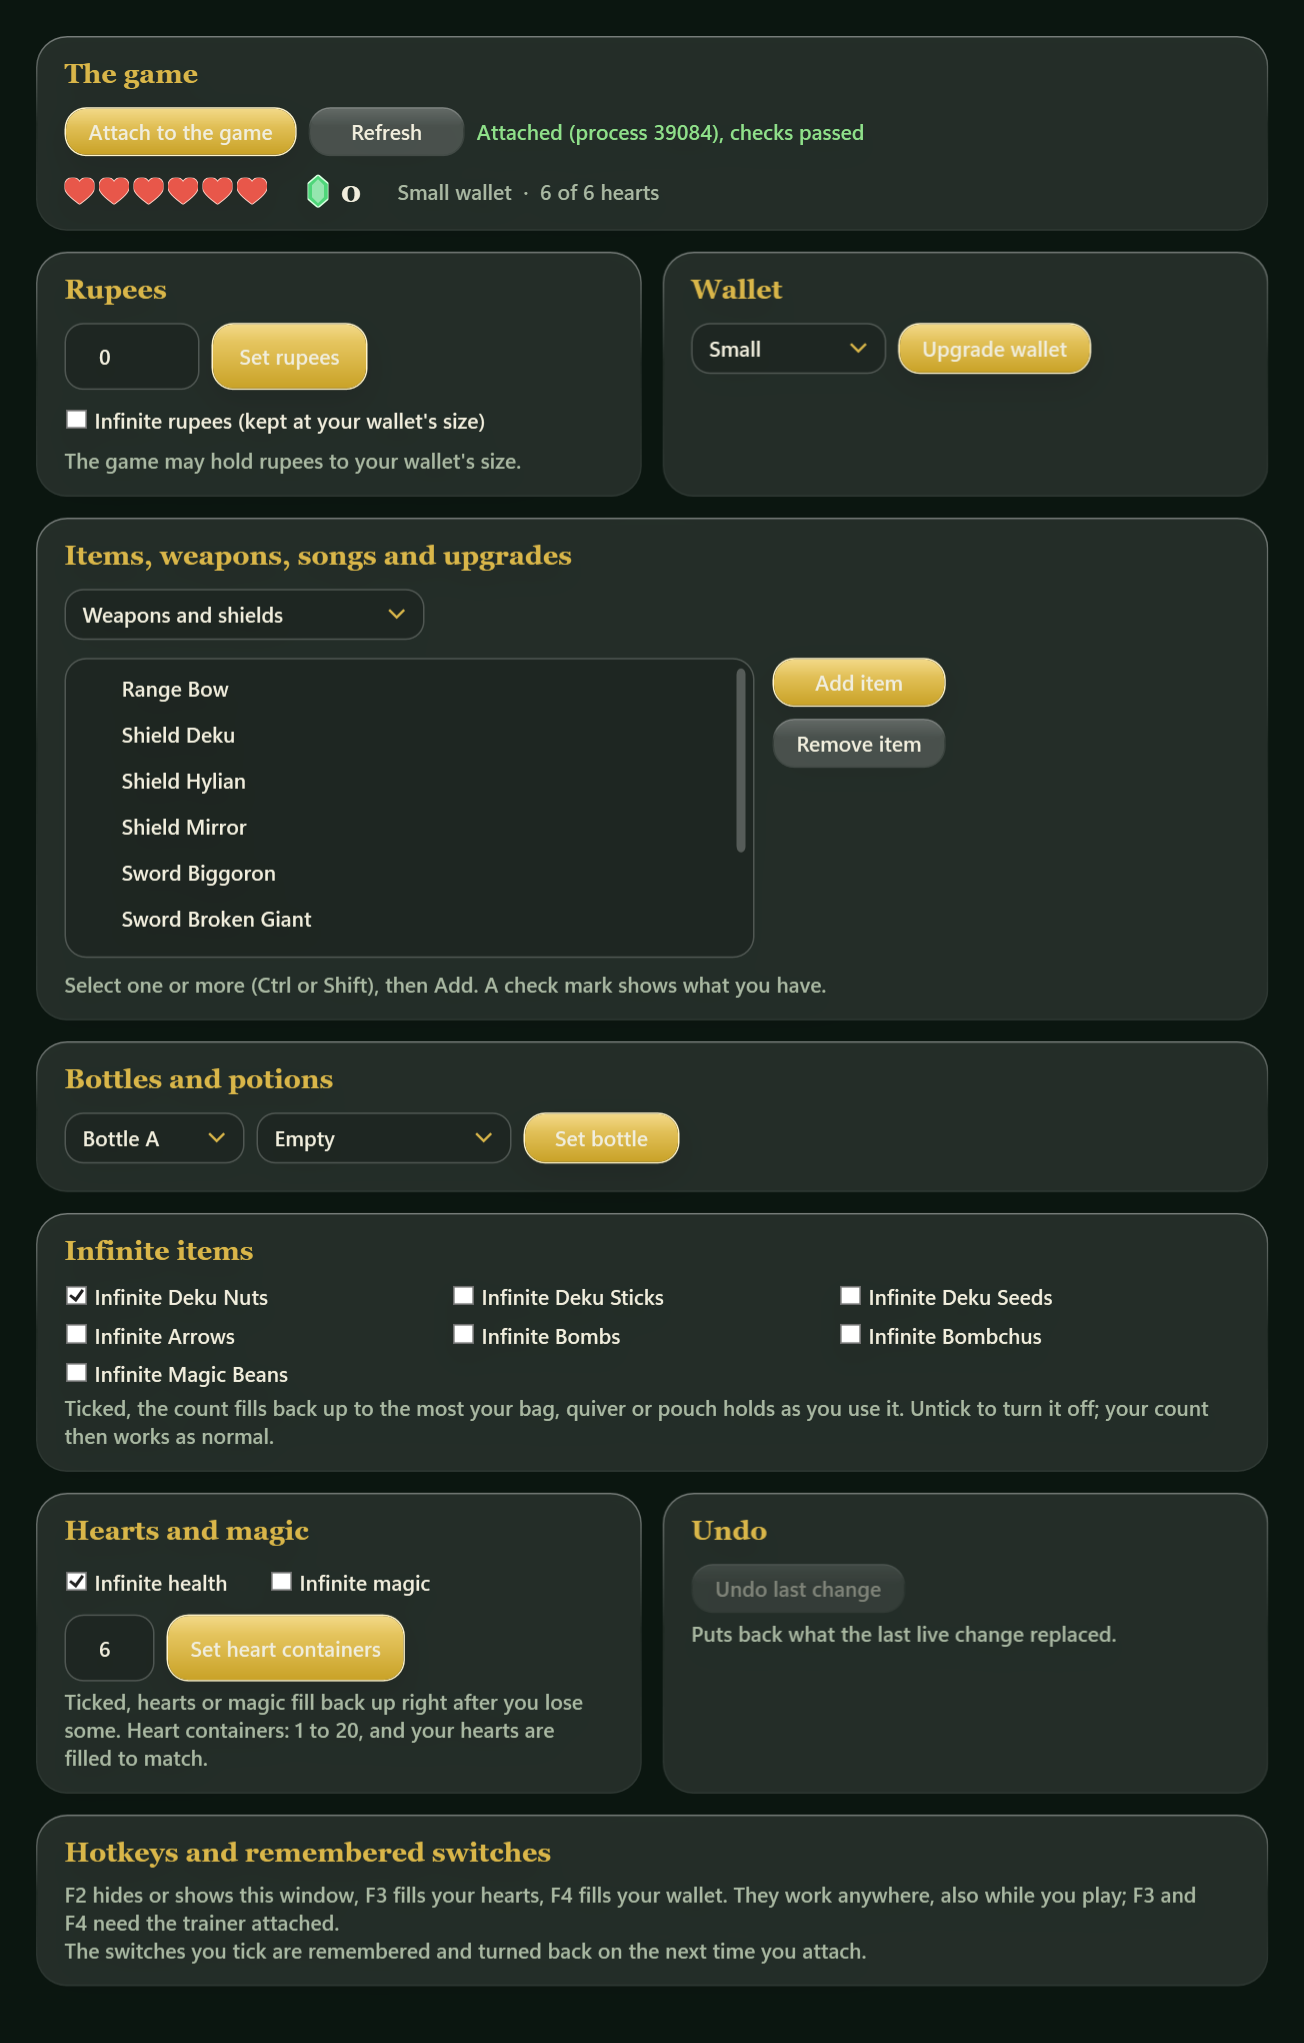
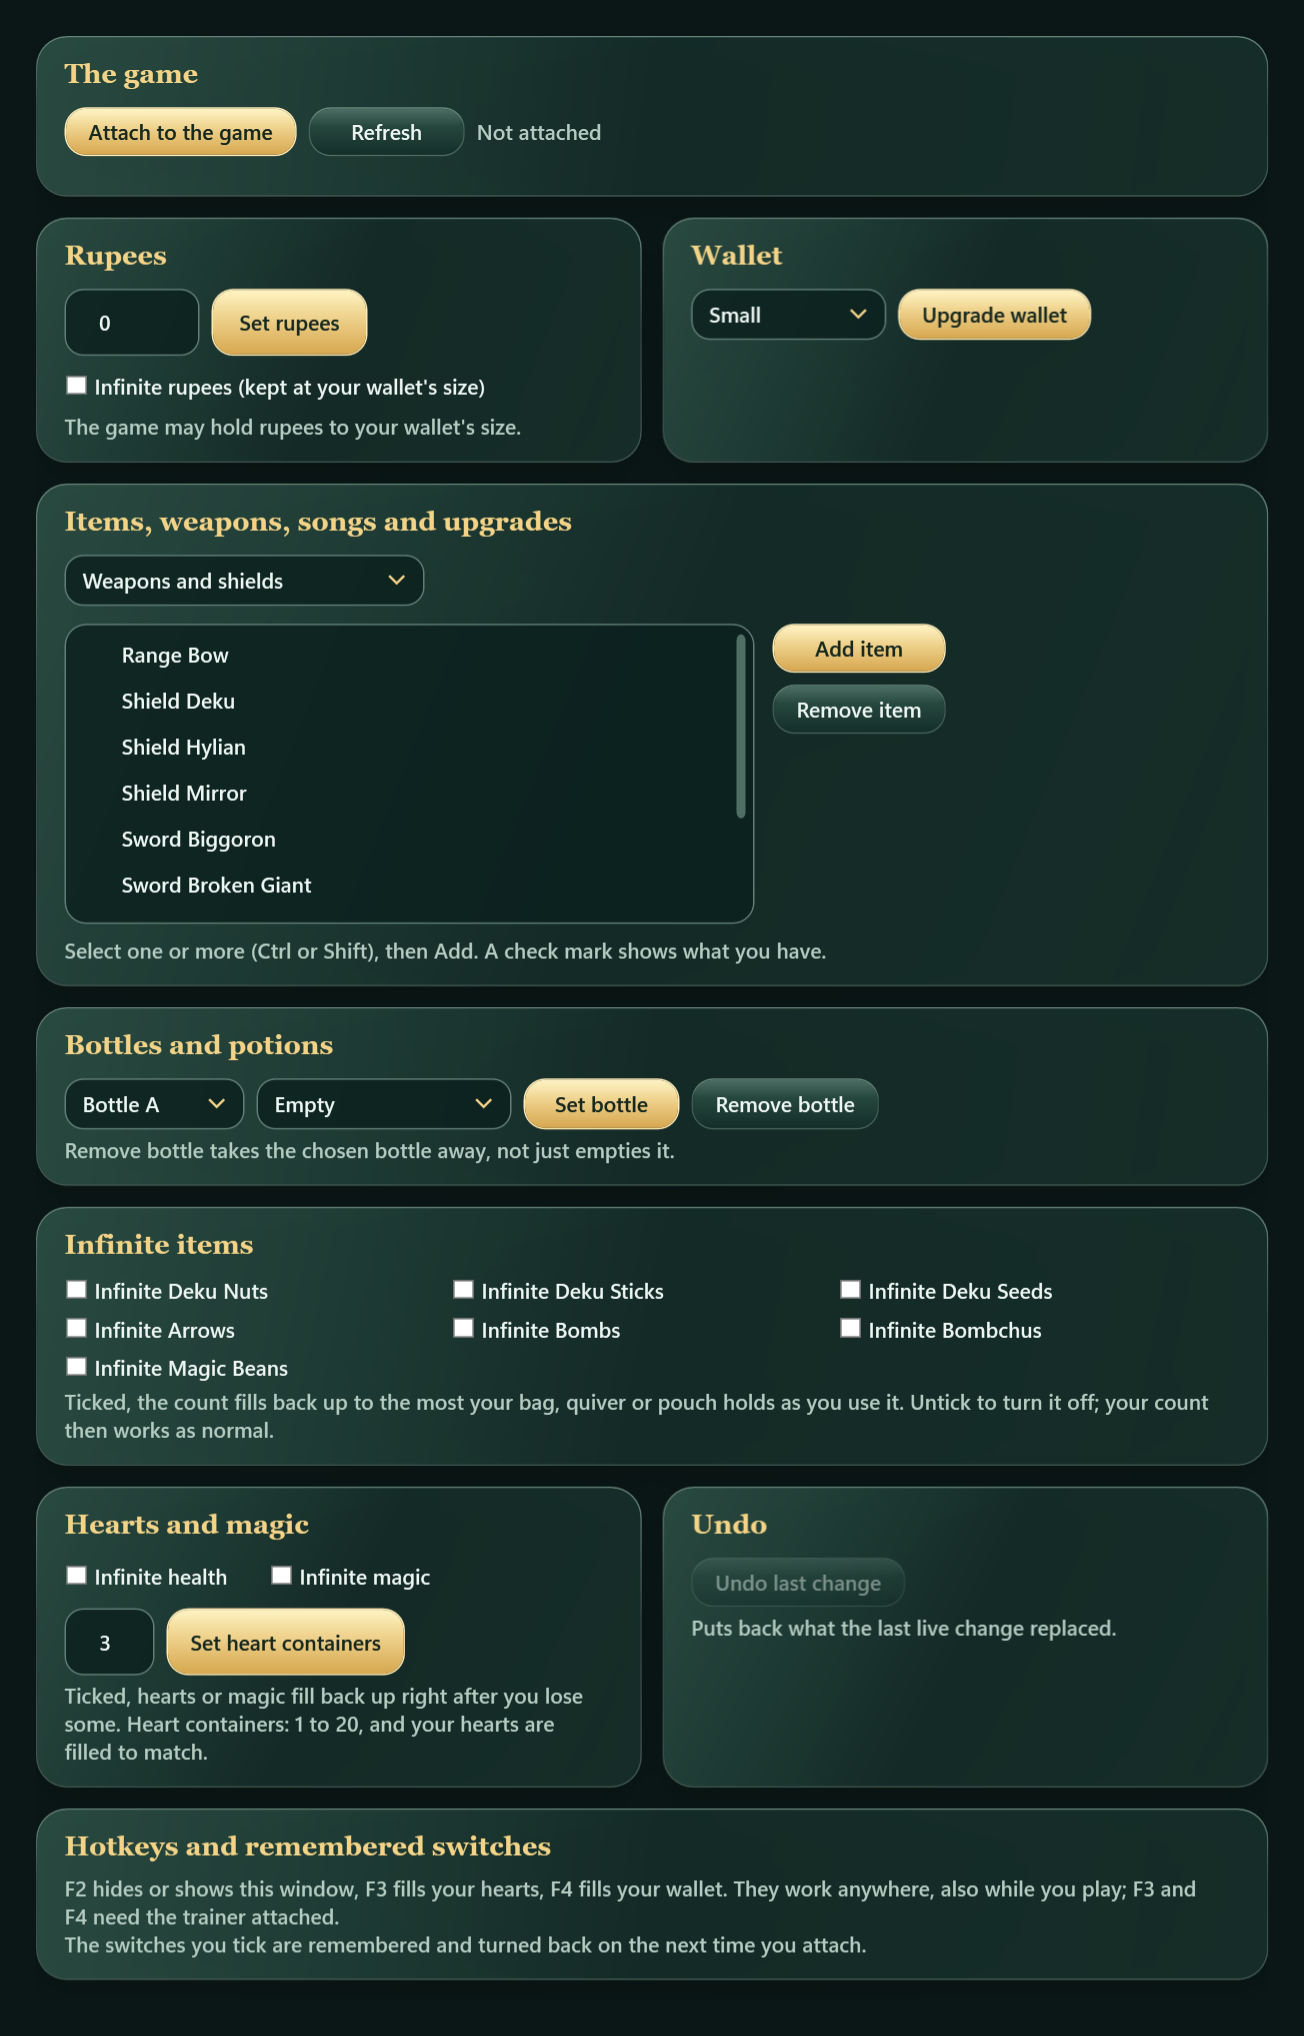
README: pictures in the new colours, text brought up to 1.5.2
- New window, live tab and save editor pictures from 1.5.2 in Hylian
  Triforce's teal, sage and gold, with the Remove bottle button. Same data
  as before: game folder E:\Games\Ocarina of Time and its slot 00 (8 hearts,
  200 rupees); the live tab is not attached.
- Text: Remove bottle, rupees never taken away (F4 and infinite rupees),
  backups next to the save folder (profile or user), the Hylian Triforce game
  folder, magic held in a tagged slot, Hylian Triforce support, the current
  self-test modes, and the theme's colours.
- --shots takes --no-attach, so README pictures never touch a running game.

diff --git a/App.cs b/App.cs
@@ -27,7 +27,7 @@ public static class Program
         if (args.Length > 1 && args[0] == "--shots")   // README pictures, see MainWindow.TakeShots
         {
             var mw = new MainWindow { Left = 40, Top = 0 };
-            mw.ContentRendered += async (_, _) => { try { await mw.TakeShots(args[1], args.Length > 2 ? args[2] : null); } catch (Exception ex) { System.IO.File.WriteAllText(System.IO.Path.Combine(args[1], "error.txt"), ex.ToString()); mw.Close(); } };
+            mw.ContentRendered += async (_, _) => { try { await mw.TakeShots(args[1], args.Length > 2 && !args[2].StartsWith("--") ? args[2] : null, !args.Contains("--no-attach")); } catch (Exception ex) { System.IO.File.WriteAllText(System.IO.Path.Combine(args[1], "error.txt"), ex.ToString()); mw.Close(); } };
             return app.Run(mw);
         }
         Window w = Setup.IsSetupLaunch(args) ? Setup.CreateSetupWindow() : new MainWindow();

diff --git a/MainWindow.cs b/MainWindow.cs
@@ -126,12 +126,12 @@ public sealed class MainWindow : Window
     /// Pictures for the README (hidden "--shots &lt;dir&gt; [game folder]" mode): attaches if the game is running, then
     /// renders each tab at its full height to PNG at 150 % scale. Changes nothing in the game or the saves.
     /// </summary>
-    public async Task TakeShots(string dir, string? folder)
+    public async Task TakeShots(string dir, string? folder, bool attach = true)
     {
         Directory.CreateDirectory(dir);
         if (folder != null) { gameDir = folder; ShowGameDir(); }
         log.Clear();
-        if (GameMemory.FindGame() != null)
+        if (attach && GameMemory.FindGame() != null)   // --no-attach: pictures without touching a running game
         {
             rupeeHigh = 0;
             live = GameMemory.Attach();

diff --git a/README.md b/README.md
@@ -18,15 +18,15 @@ It has two halves:
 | | |
 |---|---|
 | **Attach to the game** | Finds `ocarina.exe` (or a renamed copy) or Hylian Triforce's `Triforce.exe`, and checks the game's data tables against the expected layout before writing anything. |
-| **Rupees and wallet** | Set your rupees, upgrade your wallet, or tick **Infinite rupees** to keep the wallet full (99 / 200 / 500, or more when your save already holds more). |
+| **Rupees and wallet** | Set your rupees, upgrade your wallet, or tick **Infinite rupees** to keep the wallet full (99 / 200 / 500, or more when your save already holds more). It never takes rupees away. |
 | **Items, weapons, songs and upgrades** | Add or remove any item by category, several at once. A check mark shows what you already have. |
-| **Bottles and potions** | Put anything in any of the five bottles: a fairy, potions, a fish, a bug and so on. |
+| **Bottles and potions** | Put anything in any of the five bottles: a fairy, potions, a fish, a bug and so on. **Remove bottle** takes a bottle away instead of just emptying it. |
 | **Infinite items** | Deku Nuts, Deku Sticks, Deku Seeds, Arrows, Bombs, Bombchus and Magic Beans. Each refills to the most your bag, quiver or pouch holds, and only once you can carry it. |
 | **Infinite health** | Your hearts fill back up right after every hit. |
 | **Infinite magic** | Your magic meter refills as you use it, once you have one. |
 | **Heart containers** | Set 1 to 20 heart containers while you play; your hearts fill to match. |
 | **Undo** | Puts back whatever the last live change replaced. |
-| **Hotkeys** | **F2** hides or shows the trainer, **F3** fills your hearts and **F4** fills your wallet. They work even while the game is in front. |
+| **Hotkeys** | **F2** hides or shows the trainer, **F3** fills your hearts and **F4** fills your wallet (never below what you already have). They work even while the game is in front. |
 | **Remembered switches** | Whatever you had ticked turns back on the next time you attach. |
 
 ![Live tab](docs/images/live-tab.png)
@@ -36,9 +36,9 @@ It has two halves:
 | | |
 |---|---|
 | **Save slots** | Lists every slot with its hearts, rupees and save time. |
-| **Automatic backups** | Before each change, the whole slot is copied into `profile\TOZOT-backups`. **Open backups** shows the folder. |
+| **Automatic backups** | Before each change, the whole slot is copied into a `TOZOT-backups` folder next to the game's save folder (`profile` for the PC port, `user` for Hylian Triforce). **Open backups** shows the folder. |
 | **Hearts** | Heal, or set 3 to 20 heart containers. |
-| **Rupees, wallet, items, bottles** | The same choices as the live tab, written into the save file. |
+| **Rupees, wallet, items, bottles** | The same choices as the live tab, including **Remove bottle**, written into the save file. |
 | **Export for Switch 2** | Packages a copy of all your save data as a folder and a zip for a console save manager. Your PC saves are not changed. This export has not been tried on a console. |
 
 ![Save editor tab](docs/images/save-editor.png)
@@ -60,7 +60,7 @@ To uninstall, use **Settings → Apps → Hylian Triforce Trainer & Save Editor 
 1. Start the game and load your save.
 2. Open the trainer and click **Attach to the game**.
 3. Tick switches or make changes. The Activity box at the bottom says what was done.
-4. For the save editor, close the game first and pick the game folder (the one containing `Ocarina of Time.exe`) with **Change**.
+4. For the save editor, close the game first and pick the game folder with **Change**: the one containing `Ocarina of Time.exe`, or for Hylian Triforce `%LOCALAPPDATA%\HylianTriforce\Game`.
 
 ---
 
@@ -68,7 +68,9 @@ To uninstall, use **Settings → Apps → Hylian Triforce Trainer & Save Editor 
 
 **Live changes.** The PC port keeps the game's state in a GameData manager. It holds typed tables (Bool, Int, Enum) of records named by MurmurHash3 hashes from the game's own schema, `GameDataList.Product.110`. The trainer finds a field the same way the game does: it looks up the hash, then checks the table index and the record's descriptor. If anything doesn't match, it writes nothing.
 
-**Hearts and magic.** A game system keeps these in its own small handle object, `{class pointer, value, name hash}`, and sends that value to GameData every frame. Writing only the GameData record is undone the next frame. So for these meters the trainer finds the handle in memory and writes there, and the game's own record follows it.
+**Hearts and magic.** The game keeps these meters in its own memory and sends their values to GameData every frame, so writing only the GameData record is undone the next frame. Hearts live in a small handle object, `{class pointer, value, name hash}`. Magic lives in a tagged slot, `{MP hash, MPMax hash, a third hash, value}`. The trainer finds each one in memory and writes there, and the game's own record follows it.
+
+**Hylian Triforce.** It runs the same game build, so the tables are the same. Only the addresses differ: its game memory sits at a fixed offset in the `Triforce.exe` process, and the trainer finds it again on its own if an engine update moves it.
 
 **Save files.** The save editor reads and writes the same records in `progress.sav` and keeps the file size unchanged.
 
@@ -86,10 +88,13 @@ There are hidden self-test modes that write a log file and show no window:
 |---|---|
 | `--selftest-items <log>` | Every infinite-item refill and the rupee write, against the running game |
 | `--selftest-health <log>` | Finding the hearts handle, a hit, the refill, and setting heart containers |
+| `--selftest-hearts <log>`, `--selftest-magic <log>` | Lowering hearts or magic through the game's own copy, then the refill |
+| `--selftest-read <log>` | Attaching and reading values, without writing anything |
+| `--selftest-bottles <game dir> <log>` | Removing bottles and giving one back, on a copy of a save |
 | `--selftest-live <log>` | A live set, read back, undo, and read back again |
 | `--selftest-save <game dir> <log>` | Each save-editor action on a slot, then a read-back |
 
-`--shots <dir> [game dir]` renders the pictures above.
+`--shots <dir> [game dir] [--no-attach]` renders the pictures above. With `--no-attach` it never touches a running game.
 
 ## Project layout
 
@@ -98,11 +103,11 @@ There are hidden self-test modes that write a log file and show no window:
 | `GameMemory.cs` | Attaching, verified record lookups, writes with undo, and the handle search |
 | `Fields.cs` | The field names and table indexes, matched to the game's schema |
 | `Ammo.cs` | Infinite-item rules: bag sizes and what each item needs |
-| `Health.cs` | Hearts, magic and heart-container handles |
+| `Health.cs` | Hearts and heart-container handles, and the magic slot |
 | `SaveFile.cs` | Reading and writing save files, and slot backups |
 | `MainWindow.cs` | The window, both tabs, switches and hotkeys |
 | `Setup.cs` | The per-user installer and uninstaller |
-| `Theme.cs`, `Glass.xaml` | The look |
+| `Theme.cs`, `Glass.xaml` | The look, in Hylian Triforce's own teal, sage and gold |
 
 ---
 
